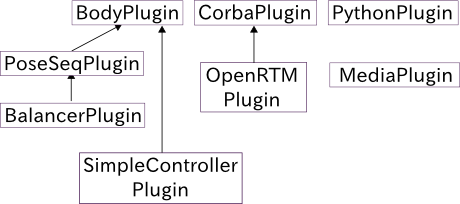
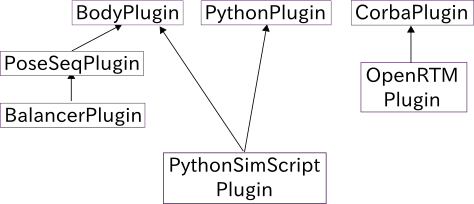
Update

Changed region(s): [[0.0, 0.0, 1.0, 1.0], [0.0, 0.1765, 0.3043, 0.5]]

diff --git a/ja/install/options.rst b/ja/install/options.rst
@@ -4,10 +4,13 @@
 
 .. sectionauthor:: 中岡 慎一郎 <s.nakaoka@aist.go.jp>
 
-ここでは、コレオノイド開発版のビルド設定において選択可能なオプション機能について、主要なものの概要を記します。
+ここでは、Choreonoidのビルド設定において選択可能なオプション機能について、主要なものの概要を記します。
 
 オプション機能はCMakeの設定で有効化します。この操作については、 :doc:`build-ubuntu` の :ref:`build-ubuntu-cmake` もしくは :doc:`build-windows` の :ref:`build-windows-cmake` を参照してください。
-  
+
+* **BUILD_ASSIMP_PLUGIN**
+
+ Assimpライブラリを利用してCOLLADA等の3Dモデルファイルを読み込めるようにするAssimpプラグインをビルドします。デフォルトでONになっています。
 
 * **ENABLE_PYTHON**
 
@@ -15,13 +18,15 @@
 
  モジュールについてはPythonラッパを併用することでPythonからコレオノイドのライブラリ機能が利用可能になります。例えばBodyモジュールのPythonラッパである "cnoid.Body" モジュールをインポートすることで、Python上でロボットモデルファイルを読み込んで各種計算を行うこともできます。プラグインのPythonラッパについては、以下で説明するPythonプラグインと併用することで、コレオノイド上でプラグインの機能をPythonスクリプトから利用することが可能となります。
 
+ このオプションはデフォルトでONになっています。
+
 * **BUILD_PYTHON_PLUGIN**
 
- Pythonプラグインをビルドします。ENABLE_PYTHON も ON にしておく必要があります。本プラグインにより、Pythonスクリプトの読み込み・実行や、コレオノイド上で動作するPythonコンソール等の機能が利用可能になります。
+ Pythonプラグインをビルドします。ENABLE_PYTHON も ON にしておく必要があります。本プラグインにより、Pythonスクリプトの読み込み・実行や、コレオノイド上で動作するPythonコンソール等の機能が利用可能になります。デフォルトでONになっています。
 
 * **BUILD_PYTHON_SIM_SCRIPT_PLUGIN**
 
- シミュレーションのセットアップ等にPythonスクリプトを利用するためのPythonSimScriptプラグインをビルドします。Pythonプラグインのビルドも必要です。
+ シミュレーションのセットアップ等にPythonスクリプトを利用するためのPythonSimScriptプラグインをビルドします。Pythonプラグインのビルドも必要です。デフォルトでONになっています。
 
 * **BUILD_POSE_SEQ_PLUGIN**
 
@@ -29,15 +34,7 @@
 
 * **BUILD_BALANCER_PLUGIN**
 
- 振り付け機能において自動バランス補正を行う機能を提供するBalancerプラグインをビルドします。二足歩行ロボットの振り付けを行う際にはこの機能を使うことで（理論上は）転倒しない動作を作成することが出来ます。
-
-* **BUILD_SIMPLE_CONTROLLER_PLUGIN**
-
- SimpleControllerプラグインをビルドします。これは、シミュレーションにおけるロボットのコントローラプログラムに関して、コレオノイドプロセス内で直接接続する形式のものを利用可能とするプラグインです。現状ではこの形式のサンプル的な位置づけとしており、最低限の機能のみ実装されています。デフォルトでONとしています。
-
-* **BUILD_SIMPLE_CONTROLLER_SAMPLES**
-
- SimpleControllerプラグインに対応したコントローラとシミュレーションのサンプルをビルドします。
+ 振り付け機能において自動バランス補正を行う機能を提供するBalancerプラグインをビルドします。二足歩行ロボットの振り付けを行う際にはこの機能を使うことで（理論上は）転倒しない動作を作成することが出来ます。デフォルトでONになっています。
 
 * **BUILD_ODE_PLUGIN**
 

diff --git a/ja/install/build-windows.rst b/ja/install/build-windows.rst
@@ -8,6 +8,8 @@
 .. contents:: 目次
    :local:
 
+.. note:: このページの記述はChoreonoidの最新のリリース版である1.6.0および開発版に対しては一部記述が古くなっています。例えば、VC++については当方でビルドを確認したのはバージョン2017となっています。近々記述を更新しますので、最新版に対して正確な説明についてはそれまではお待ちいただくようご了承願います。
+
 
 準備
 ----
@@ -121,7 +123,7 @@ Eigen
 
 Choreonoidのリリース版のソースコードは、 `ダウンロード <http://choreonoid.org/ja/download.html>`_ のページからダウンロードすることが可能です。このページにある「ソースパッケージ」の該当するバージョンをダウンロードしてください。ファイルはZIPファイルになっていますので、エクスプローラ等を用いて適当なディレクトリに展開してください。
 
-展開すると choreonoid-1.5.0 といったディレクトリが生成されます。このディレクトリの中にソースコード一式が格納されており、本マニュアルではこれを今後 **「ソースディレクトリ」** と呼ぶことにします。
+展開すると choreonoid-1.6.0 といったディレクトリが生成されます。このディレクトリの中にソースコード一式が格納されており、本マニュアルではこれを今後 **「ソースディレクトリ」** と呼ぶことにします。
 
 開発版
 ~~~~~~
@@ -431,4 +433,4 @@ Python3のインストールは次の通りです。
 プラグインのアンインストール
 ~~~~~~~~~~~~~~~~~~~~~~~~~~~~~
 
-**BUILD_XXX_PLUGIN** のオプションをオンにしてインストールしたプラグインは、その後オプションをオフにしてインストールしても削除されません。プラグインを追加して動作が不安定になった場合など、プラグインを削除したい場合は、手動でファイルを削除してください。プラグインは(コレオノイドのインストール先)/lib/choreonoid-1.5にCnoid***Plugin.dllとしてインストールされています。
+**BUILD_XXX_PLUGIN** のオプションをオンにしてインストールしたプラグインは、その後オプションをオフにしてインストールしても削除されません。プラグインを追加して動作が不安定になった場合など、プラグインを削除したい場合は、手動でファイルを削除してください。プラグインは(コレオノイドのインストール先)/lib/choreonoid-1.6にCnoid***Plugin.dllとしてインストールされています。

diff --git a/ja/install/platform.rst b/ja/install/platform.rst
@@ -6,13 +6,13 @@
 
 Choreonoidの開発版(バージョン1.5候補）については、以下のプラットフォームで動作することを確認しています。
 
-* Ubuntu Linux 12.04, 14.04 (x64 アーキテクチャ）
+* Ubuntu Linux 14.04, 16.04 (x64 アーキテクチャ）
 
-* Windows 7 (x64 アーキテクチャ）
+* Windows 10 (x64 アーキテクチャ）
 
 Linuxの他のディストリビューションやバージョン、アーキテクチャについても動作するものは多いと思われますが、公式には確認をしておらず、本ドキュメントの記述に従うだけではインストールできない場合があります。
 
-Mac OS Xについては、リリース済みのバージョン1.3等では動作確認をしているのですが、最新の開発版についてはまだ動作確認が出来ていません。Mac OS Xにて開発版を利用したい場合には、リリース版のマニュアルを参考にしてトライしてみてください。
+.. Mac OS Xについては、リリース済みのバージョン1.3等では動作確認をしているのですが、最新の開発版についてはまだ動作確認が出来ていません。Mac OS Xにて開発版を利用したい場合には、リリース版のマニュアルを参考にしてトライしてみてください。
 
 .. 推奨プラットフォームは Ubuntu Linux です。
 .. ソースコードからのビルドを行う場合でもさほど手間はかからず、動作も高速で、制御プログラムやプラグインの開発も快適に行うことができます。

diff --git a/ja/install/directories.rst b/ja/install/directories.rst
@@ -24,7 +24,7 @@ Windowsの場合は以下のようになります。 ::
      + model
 
 
-ここで "choreonoid-x.x" の "x.x" の部分は、Choreonoidのバージョン番号を表しており、実際には "1.5" といった番号になります。
+ここで "choreonoid-x.x" の "x.x" の部分は、Choreonoidのバージョン番号を表しており、実際には "1.6" といった番号になります。
 
 それぞれのディレクトリの内容は以下のようになっています。
 
